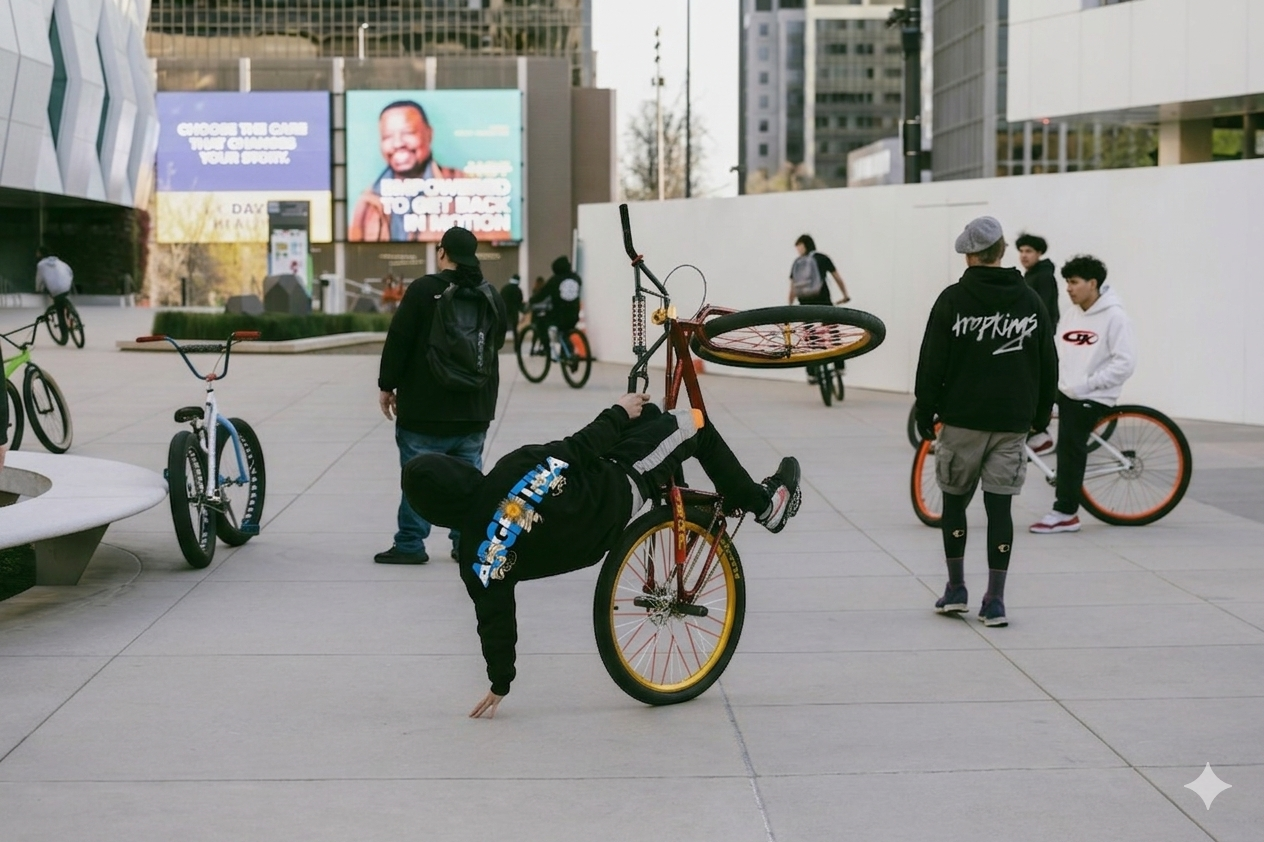
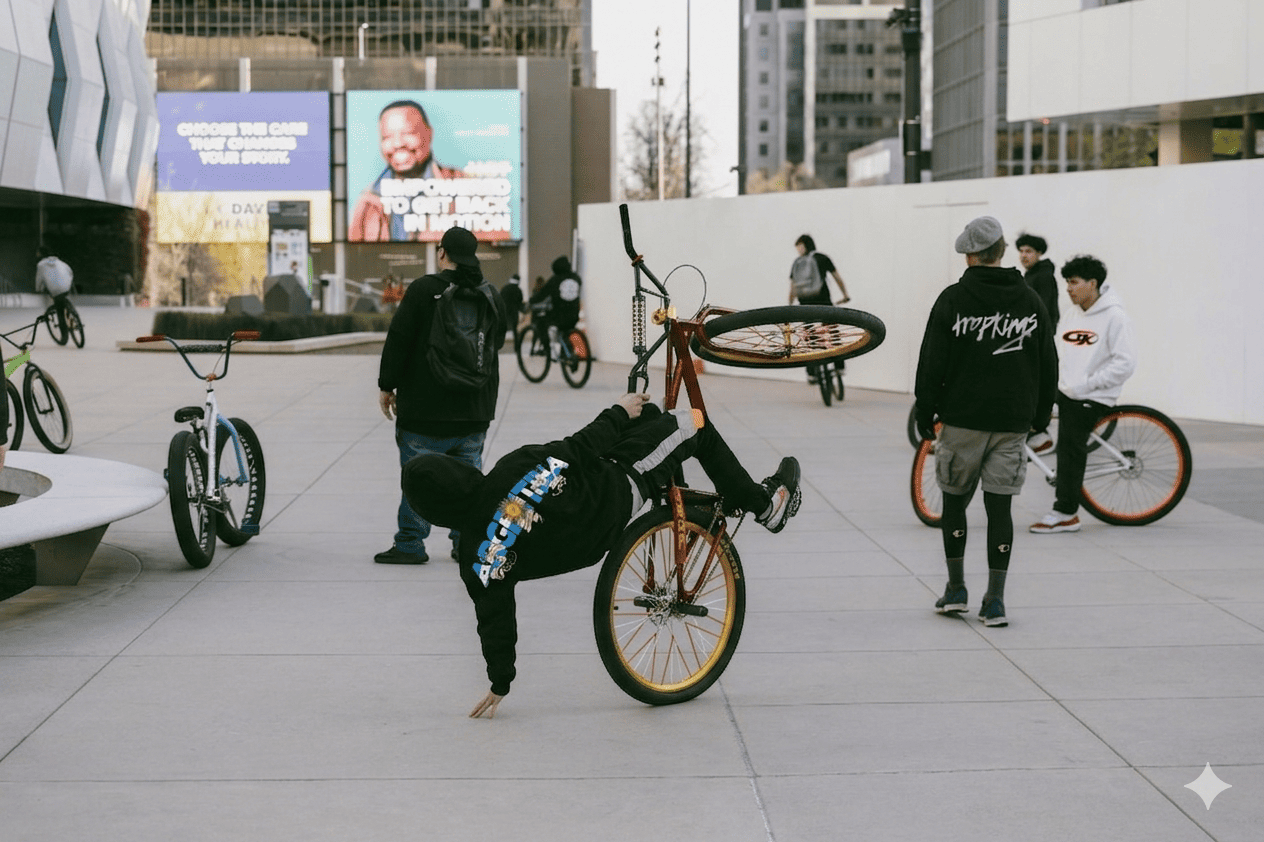
correcion de errores y talles

diff --git a/html/productos.html b/html/productos.html
@@ -47,6 +47,7 @@
                     <img class="sec-img-new" src="../img/hoodie-sun-blanco-frente.webp" alt="Hoodie-Sun-Blanco-Frente">
                 </div>
                 <h2>Hoodie SUN Blanco</h2>
+                <p class="talle">Talle: XL</p>
                 <p>$57.400</p>
                 <a href="https://api.whatsapp.com/send?phone=5493535624254&text=Hola%20SYNC!%20Te%20consulto%20por%20esta%20prenda:%20Hoodie%20SUN%20Blanco%20..." target="_blank">Consultar</a>
             </div>
@@ -57,6 +58,7 @@
                     <img class="sec-img-new" src="../img/hoodie-argentina-aniversario-negro-frente.webp" alt="Hoodie-Argentina-Aniversario-Negro-Frente">
                 </div>
                 <h2>Hoodie Argentina Aniversario</h2>
+                <p class="talle">Talle: M</p>
                 <p>$61.400</p>
                 <a href="https://api.whatsapp.com/send?phone=5493535624254&text=Hola%20SYNC!%20Te%20consulto%20por%20esta%20prenda:%20Hoodie%20Argentina%20Aniversario%20..." target="_blank">Consultar</a>
             </div>
@@ -67,6 +69,7 @@
                     <img class="sec-img-new" src="../img/hoodie-blanco-espalda-.webp" alt="Hoodie-2000s-Blanco-Espalda">
                 </div>
                 <h2>Hoodie 2000s Blanco</h2>
+                <p class="talle">Talle: M</p>
                 <p>$57.400</p>
                 <a href="https://api.whatsapp.com/send?phone=5493535624254&text=Hola%20SYNC!%20Te%20consulto%20por%20esta%20prenda:%20Hoodie%202000s%20Blanco%20..." target="_blank">Consultar</a>
             </div>
@@ -77,6 +80,7 @@
                     <img class="sec-img-new" src="../img/hoodie-graff-negro-frente.webp" alt="Hoodie-Graff-Negro-Frente">
                 </div>
                 <h2>Hoodie Graff Negro</h2>
+                <p class="talle">Talle: M - L</p>
                 <p>$60.000</p>
                 <a href="https://api.whatsapp.com/send?phone=5493535624254&text=Hola%20SYNC!%20Te%20consulto%20por%20esta%20prenda:%20Hoodie%20Graff%20Negro%20..." target="_blank">Consultar</a>
             </div>
@@ -87,6 +91,7 @@
                     <img class="sec-img-new" src="../img/hoodie-essential-negro-espalda.webp" alt="Hoodie-Center-Crown-Negro-Espalda">
                 </div>
                 <h2>Hoodie Center Crown <br> Negro</h2>
+                <p class="talle">Talle: S - M</p>
                 <p>$57.400</p>
                 <a href="https://api.whatsapp.com/send?phone=5493535624254&text=Hola%20SYNC!%20Te%20consulto%20por%20esta%20prenda:%20Hoodie%20Center%20Crown%20Negro%20..." target="_blank">Consultar</a>
             </div>
@@ -97,6 +102,7 @@
                     <img class="sec-img-new" src="../img/hoodie-angels-endurance-negro-frente.webp" alt="Hoodie-Angels-Endurance-Negro-Frente">
                 </div>
                 <h2>Hoodie Angels Endurance</h2>
+                <p class="talle">Talle: M</p>
                 <p>$57.400</p>
                 <a href="https://api.whatsapp.com/send?phone=5493535624254&text=Hola%20SYNC!%20Te%20consulto%20por%20esta%20prenda:%20Hoodie%20Angels%20Endurance%20..." target="_blank">Consultar</a>
             </div>
@@ -107,6 +113,7 @@
                     <img class="sec-img-new" src="../img/hoodie-center-crown-blanco-espalda.webp" alt="Hoodie-Center-Crown-Blanco-Espalda">
                 </div>
                 <h2>Hoodie Center Crown <br> Blanco</h2>
+                <p class="talle">Talle: L</p>
                 <p>$57.400</p>
                 <a href="https://api.whatsapp.com/send?phone=5493535624254&text=Hola%20SYNC!%20Te%20consulto%20por%20esta%20prenda:%20Hoodie%20Center%20Crown%20Blanco%20..." target="_blank">Consultar</a>
             </div>
@@ -116,6 +123,7 @@
                     <img class="sec-img-new " src="../img/remera-calligraphy-negra-frente.webp" alt="Remera-Calligraphy-Negra-Frente">
                 </div>
                 <h2>Remera Calligraphy Negra</h2>
+                <p class="talle">Talle: S</p>
                 <p>$28.000</p>
                 <a href="https://api.whatsapp.com/send?phone=5493535624254&text=Hola%20SYNC!%20Te%20consulto%20por%20esta%20prenda:%20Remera%20Calligraphy%20Negra%20..." target="_blank">Consultar</a>
             </div>
@@ -126,6 +134,7 @@
                     <img class="sec-img-new" src="../img/remera-dropkings-blanca-frente.webp" alt="Remera-Back-DK-Blanca-Frente">
                 </div>
                 <h2>Remera Back DK Blanca</h2>
+                <p class="talle">Talle: L</p>
                 <p>$28.000</p>
                 <a href="https://api.whatsapp.com/send?phone=5493535624254&text=Hola%20SYNC!%20Te%20consulto%20por%20esta%20prenda:%20Remera%20Back%20DK%20Blanca%20..." target="_blank">Consultar</a>
             </div>
@@ -136,6 +145,7 @@
                     <img class="sec-img-new" src="../img/remera-essential-blanca-espalda.webp" alt="Remera-DKS-Race-Blanca-Espalda">
                 </div>
                 <h2>Remera CROSS Blanca</h2>
+                <p class="talle">Talle: M</p>
                 <p>$28.000</p>
                 <a href="https://api.whatsapp.com/send?phone=5493535624254&text=Hola%20SYNC!%20Te%20consulto%20por%20esta%20prenda:%20Remera%20CROSS%20Blanca%20..." target="_blank">Consultar</a>
             </div>

diff --git a/index.html b/index.html
@@ -54,6 +54,7 @@
                     <img class="sec-img-new" src="./img/hoodie-argentina-aniversario-negro-frente.webp" alt="hoodie-argentina">
                 </div>
                 <h2>Hoodie Argentina Aniversario</h2>
+                <p class="talle">Talle: M</p>
                 <p>$61.400</p>
                 <a href="https://api.whatsapp.com/send?phone=5493535624254&text=Hola%20SYNC!%20Te%20consulto%20por%20esta%20prenda:%20Hoodie%20Argentina%20Aniversario%20..." target="_blank">Consultar</a>
             </div>
@@ -63,6 +64,7 @@
                     <img class="sec-img-new" src="./img/hoodie-blanco-espalda-.webp" alt="hoodie-2000s">
                 </div>
                 <h2>Hoodie 2000s Blanco</h2>
+                <p class="talle">Talle: M</p>
                 <p>$57.400</p>
                 <a href="https://api.whatsapp.com/send?phone=5493535624254&text=Hola%20SYNC!%20Te%20consulto%20por%20esta%20prenda:%20Hoodie%202000s%20Blanco%20..." target="_blank">Consultar</a>
             </div>
@@ -72,6 +74,7 @@
                     <img class="sec-img-new" src="./img/remera-dropkings-blanca-frente.webp" alt="remera-dropkings-blanca">
                 </div>
                 <h2>Remera Back DK Blanca</h2>
+                <p class="talle">Talle: L</p>
                 <p>$28.000</p>
                 <a href="https://api.whatsapp.com/send?phone=5493535624254&text=Hola%20SYNC!%20Te%20consulto%20por%20esta%20prenda:%20Remera%20Back%20DK%20Blanca%20..." target="_blank">Consultar</a>
             </div>
@@ -81,6 +84,7 @@
                     <img class="sec-img-new" src="./img/hoodie-graff-negro-frente.webp" alt="hoodie-graff-negro">
                 </div>
                 <h2>Hoodie Graff Negro</h2>
+                <p class="talle">Talle: M - L</p>
                 <p>$60.000</p>
                 <a href="https://api.whatsapp.com/send?phone=5493535624254&text=Hola%20SYNC!%20Te%20consulto%20por%20esta%20prenda:%20Hoodie%20Graff%20Negro%20..." target="_blank">Consultar</a>
             </div>
@@ -90,6 +94,7 @@
                     <img class="sec-img-new" src="./img/hoodie-sun-blanco-frente.webp" alt="hoodie-sun-blanco">
                 </div>
                 <h2>Hoodie Sun Blanco</h2>
+                <p class="talle">Talle: XL</p>
                 <p>$57.400</p>
                 <a href="https://api.whatsapp.com/send?phone=5493535624254&text=Hola%20SYNC!%20Te%20consulto%20por%20esta%20prenda:%20Hoodie%20Sun%20Blanco%20..." target="_blank">Consultar</a>
             </div>
@@ -99,6 +104,7 @@
                     <img class="sec-img-new" src="./img/remera-essential-blanca-espalda.webp" alt="remera-dks-race-blanca">
                 </div>
                 <h2>Remera CROSS Blanca</h2>
+                <p class="talle">Talle: M</p>
                 <p>$28.000</p>
                 <a href="https://api.whatsapp.com/send?phone=5493535624254&text=Hola%20SYNC!%20Te%20consulto%20por%20esta%20prenda:%20Remera%20CROSS%20Blanca%20..." target="_blank">Consultar</a>
             </div>

diff --git a/css/estilos.css b/css/estilos.css
@@ -44,35 +44,44 @@ body {
 /* texto deslizante */
 .texto-deslizante{
     overflow: hidden;
-    white-space: nowrap;
     width: 100%;
     background: #050606;
     color: white;
     padding: 9px 0;
+    position: relative;
 }
 
 .texto-track{
     display: flex;
-    width: max-content;
     gap: 50px;
+    width: fit-content;
+
     animation: scroll 20s linear infinite;
+
+    will-change: transform;
+    transform: translate3d(0,0,0);
+
+    backface-visibility: hidden;
+    -webkit-backface-visibility: hidden;
+
+    -webkit-transform: translate3d(0,0,0);
 }
 
 .texto-track p{
     margin: 0;
     font-weight: bold;
     font-size: 14px;
+    white-space: nowrap;
     flex-shrink: 0;
 }
 
-/* Animación */
-@keyframes scroll {
-    from {
-        transform: translateX(0);
+@keyframes scroll{
+    from{
+        transform: translate3d(0,0,0);
     }
 
-    to {
-        transform: translateX(-50%);
+    to{
+        transform: translate3d(-50%,0,0);
     }
 }
 
@@ -119,6 +128,13 @@ h1 {
     font-size: 18px;
     margin-top: 0.7rem;
     font-weight: 600;
+    margin-bottom: 5px;
+}
+
+.cont-productos-new .prod .talle{
+    font-size: 14px;
+    margin-bottom: 0.7rem;
+    font-weight: 480;
 }
 
 .cont-productos-new .prod p {
